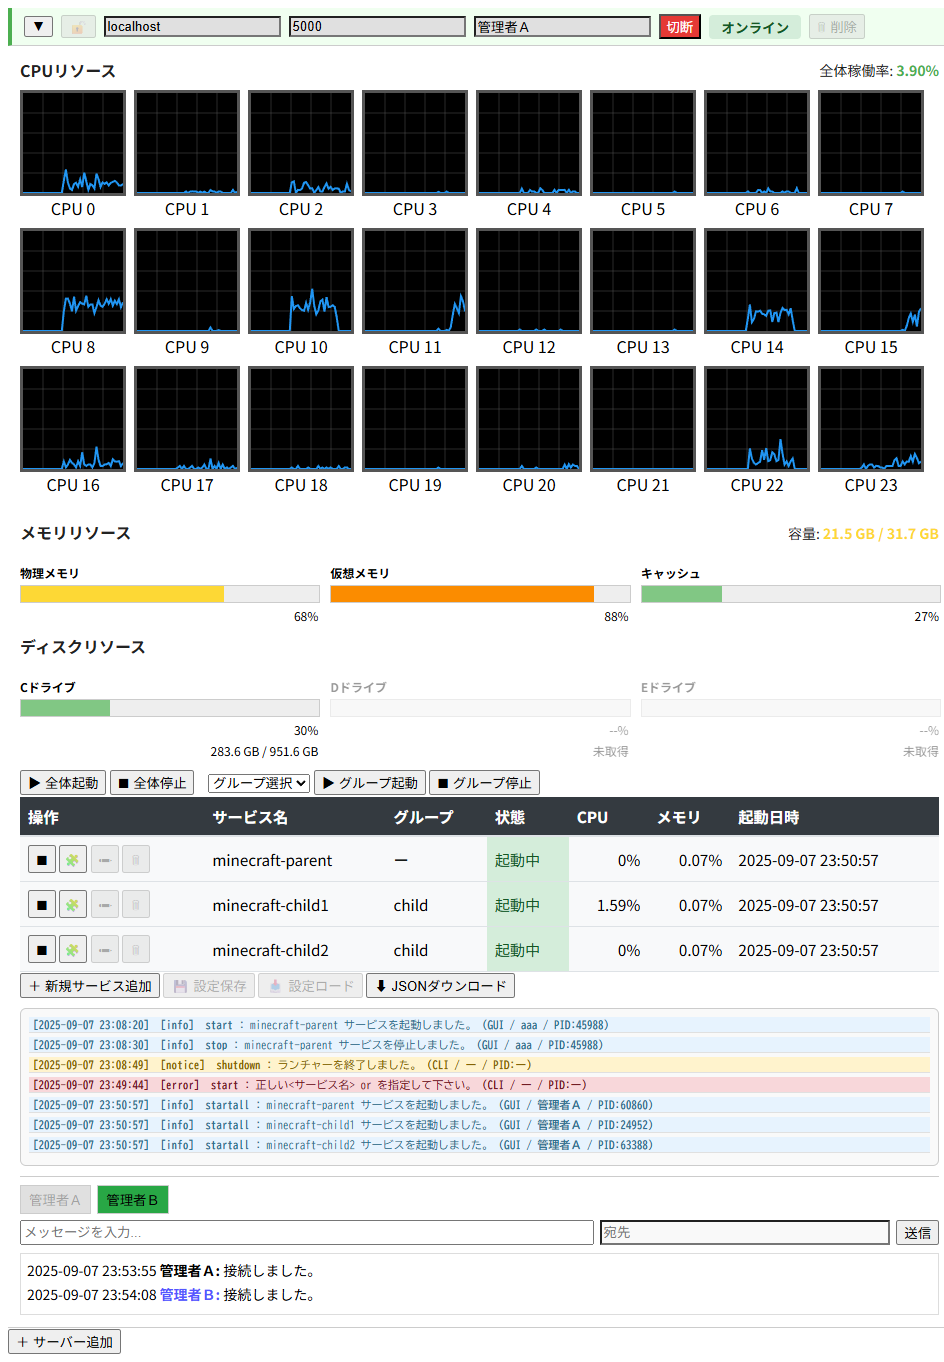
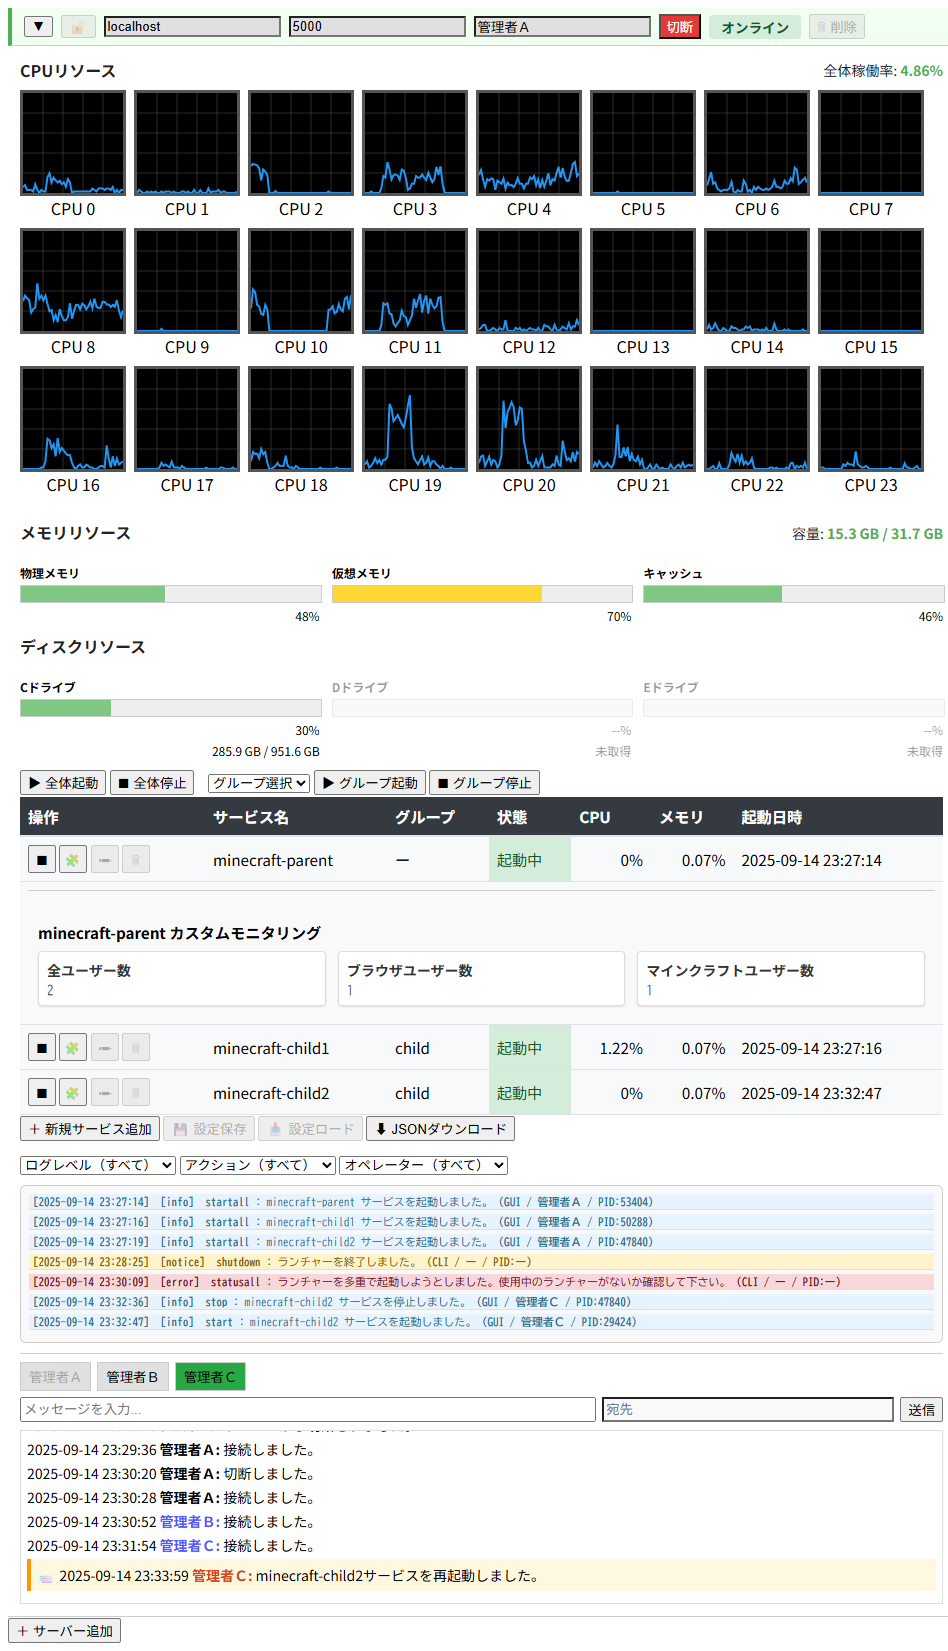
v2.3.3 Release GUIランチャーログのアクション対象オペレーター名が入れ替わってしまう不具合を修正 画像の差し替え

diff --git a/app/RuntimeUnits/RuntimeForLauncher.php b/app/RuntimeUnits/RuntimeForLauncher.php
@@ -531,7 +531,7 @@ finish_explore_for_start:
             {
                 // メッセージ出力
                 $msg = __('launcher.INFO_STARTED_SERVICE', ['service' => $p_param->service_list_current[$i]['name']]);
-                $p_param->logWriter('info', ['type' => $p_param->order_action_current['action'], 'message' => $msg, 'via' => $p_param->order_action_current['via'], 'who' => null, 'pid' => $p_param->service_list_current[$i]['pid']]);
+                $p_param->logWriter('info', ['type' => $p_param->order_action_current['action'], 'message' => $msg, 'via' => $p_param->order_action_current['via'], 'who' => $p_param->order_action_current['who'], 'pid' => $p_param->service_list_current[$i]['pid']]);
             }
 
             // 終了判定
@@ -704,7 +704,7 @@ finish_explore_for_start:
                 }
             }
 
-            $p_param->logWriter($level, ['type' => $p_param->order_action_current['action'], 'message' => $msg, 'via' => $p_param->order_action_current['via'], 'who' => null, 'pid' => $log_pid]);
+            $p_param->logWriter($level, ['type' => $p_param->order_action_current['action'], 'message' => $msg, 'via' => $p_param->order_action_current['via'], 'who' => $p_param->order_action_current['who'], 'pid' => $log_pid]);
 
             // 終了判定
             if(++$p_param->idx_process >= $p_param->max_process)
@@ -1188,7 +1188,7 @@ finish_explore_for_linux_starting:
             {
                 // メッセージ出力
                 $msg = __('launcher.INFO_STARTED_SERVICE', ['service' => $p_param->service_list_current[$i]['name']]);
-                $p_param->logWriter('info', ['type' => $p_param->order_action_current['action'], 'message' => $msg, 'via' => $p_param->order_action_current['via'], 'who' => null, 'pid' => $p_param->service_list_current[$i]['pid']]);
+                $p_param->logWriter('info', ['type' => $p_param->order_action_current['action'], 'message' => $msg, 'via' => $p_param->order_action_current['via'], 'who' => $p_param->order_action_current['action'], 'pid' => $p_param->service_list_current[$i]['pid']]);
             }
 
 finish_process_for_linux_start:
@@ -1363,7 +1363,7 @@ finish_process_for_linux_start:
                 }
             }
 
-            $p_param->logWriter($level, ['type' => $p_param->order_action_current['action'], 'message' => $msg, 'via' => $p_param->order_action_current['via'], 'who' => null, 'pid' => $log_pid]);
+            $p_param->logWriter($level, ['type' => $p_param->order_action_current['action'], 'message' => $msg, 'via' => $p_param->order_action_current['via'], 'who' => $p_param->order_action_current['who'], 'pid' => $log_pid]);
 
             // 終了判定
             if(++$p_param->idx_process >= $p_param->max_process)

diff --git a/app/UnitParameter/ParameterForWebsocket.php b/app/UnitParameter/ParameterForWebsocket.php
@@ -1553,8 +1553,6 @@ class ParameterForWebsocket extends SocketManagerParameter
             return;
         }
 
-        $p_log['who'] = $this->getUserName();
-
         $is_busy = $this->isOrderAction();
         foreach($cids ?? [] as $cid)
         {
